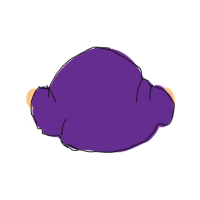
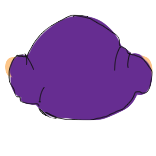
inital commit

Changed region(s): [[0.0256, 0.0769, 1.0, 0.7692]]

diff --git a/main.py b/main.py
@@ -6,13 +6,11 @@ import speech_recognition as sr
 from gtts import gTTS
 #creats image
 back = pygame.image.load("backg.png")
-playeri = pygame.image.load("player.png")
+playeri = pygame.image.load("Ttopviewpl.png")
 pygame.display.set_icon(playeri)
 #Makes screen
 sc = pygame.display.set_mode((800,800))
 sc.blit(back,(0,0))
-
-
 # can be color of background
 #sc.fill((56,0,67))
 #sets background
@@ -46,19 +44,60 @@ while run:
         if event.type == pygame.QUIT:
             run = False
     voice = audio()
-    # makes it jump
-    if "jump" in voice:
+    #print(voice)
+    # makes it go north
+    if "North" in voice:
+        hi = 1
+        #print(hi)
+        while hi == 1:
+            playery += -35
+            # updates and makes to go forward
+            sc.blit(back, (0, 0))
+            play(playerx, playery)
+            pygame.display.update()
+            #playery += -35
+            voice = audio()
+           # print(voice)
+            # stops going forward
+            if "stop" in voice:
+                hi = 0
         # change y axes up
-        playery += -35
-    if "left" in voice:
+        #playery += -35
+        print(voice)
+    if "West" in voice:
+        hi = 1
+        while hi == 1:
         # change y axes left
-        playerx += -35
-    if "right" in voice:
+            playerx += -35
+            sc.blit(back, (0, 0))
+            play(playerx, playery)
+            pygame.display.update()
+            voice = audio()
+            if "stop" in voice:
+                hi = 0
+
+    if "East" in voice:
+        hi = 1
+        while hi == 1:
         # change x axis right
-        playerx += 35
-    if "down" in voice:
+            playerx += 35
+            sc.blit(back, (0, 0))
+            play(playerx, playery)
+            pygame.display.update()
+            voice = audio()
+            if "stop" in voice:
+                hi = 0
+    if "South" in voice:
+        hi = 1
+        while hi == 1:
         # change y axes down
-        playery += 35
+            playery += 35
+            sc.blit(back, (0, 0))
+            play(playerx, playery)
+            pygame.display.update()
+            voice = audio()
+            if "stop" in voice:
+                hi = 0
     if "exit" in voice:
         # this exits the game
         run = False
@@ -69,4 +108,3 @@ while run:
     play(playerx,playery)
     # chages ever thing
     pygame.display.update()
-
